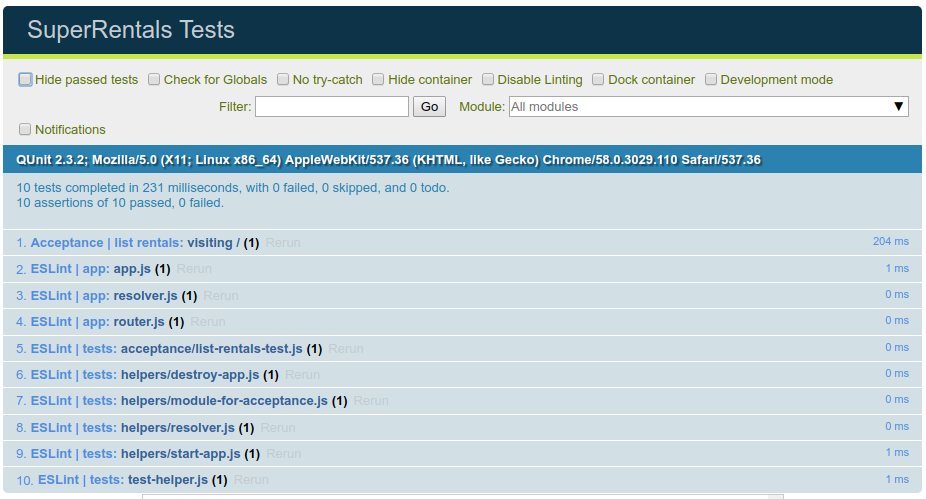
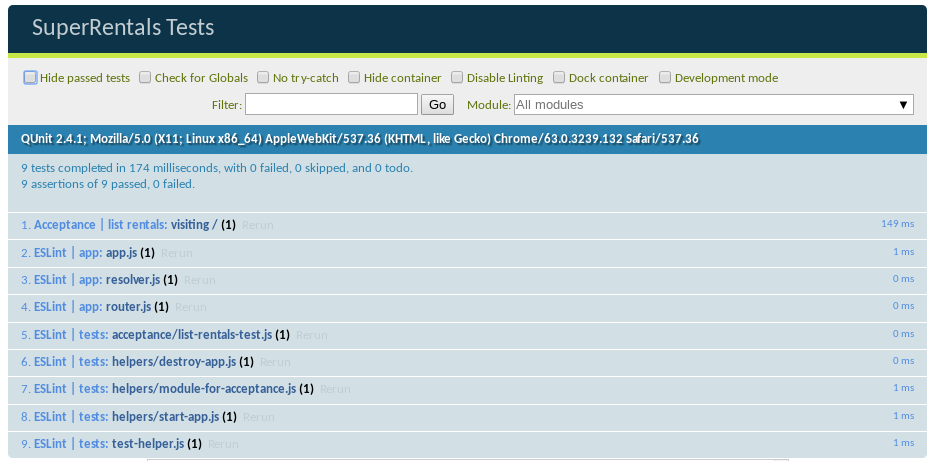
There is no 'helpers/resolver.js' unit test now

Changed region(s): [[0.0, 0.0, 0.9978, 1.0], [0.9676, 0.0, 0.9978, 0.0304]]

diff --git a/source/tutorial/acceptance-test.md b/source/tutorial/acceptance-test.md
@@ -70,7 +70,7 @@ Now run your test suite with the CLI command, `ember test --server`.
 
 By default, when you run `ember test --server`, Ember CLI runs the [Testem test runner](https://github.com/testem/testem), which runs Qunit in Chrome and [PhantomJS](http://phantomjs.org/).
 
-Our launched Chrome web browser now shows 10 successful tests. If you toggle the box labeled "Hide passed tests", you should see our successful acceptance test, along with 9 passing ESLint tests. Ember tests each file you create for syntax issues (known as "linting") using [ESLint](http://eslint.org/).
+Our launched Chrome web browser now shows 9 successful tests. If you toggle the box labeled "Hide passed tests", you should see our successful acceptance test, along with 8 passing ESLint tests. Ember tests each file you create for syntax issues (known as "linting") using [ESLint](http://eslint.org/).
 
 ![Initial Tests Screenshot](../../images/acceptance-test/initial-tests.png)
 
